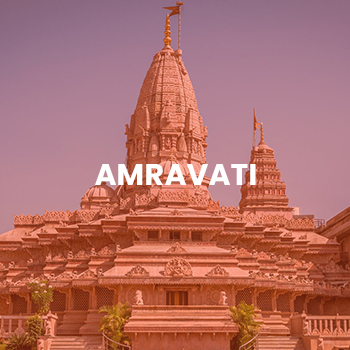
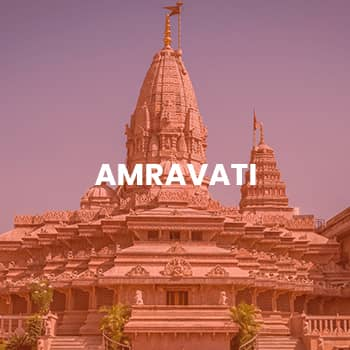
minor changes

diff --git a/gallery.html b/gallery.html
@@ -337,14 +337,14 @@
                   <div class="footer-social">
                     <a
                       class="footer-social-icon facebook"
-                      href="#"
+                      href="https://www.facebook.com/profile.php?id=100084975259552"
                       target="_blank"
                       ><i class="fab fa-facebook-f"></i
                     ></a>
 
                     <a
                       class="footer-social-icon instagram"
-                      href="#"
+                      href="https://instagram.com/trendsganesha?igshid=YmMyMTA2M2Y="
                       target="_blank"
                       ><i class="fab fa-instagram"></i
                     ></a>
@@ -369,15 +369,20 @@
                   <h5></h5>
                   <ul class="ft-menu-list">
                     <li>
-                      <strong>Email:</strong
-                      ><a class="text-black" href="mailto:corporate@lokmat.com"
-                        >corporate@lokmat.com</a
+                      <strong>Email: </strong
+                      ><a class="text-black" href="mailto:revathi.mudaliar@lokmat.com"
+                        >revathi.mudaliar@lokmat.com</a
                       >
                     </li>
                     <li>
                       <strong>Phone: </strong
-                      ><a class="text-black" href="tel:022-2482-0000"
-                        >022 2482 0000</a
+                      ><a class="text-black" href="tel:+91989-234-1158"
+                        >+91 9892341158</a
+                      >
+                    </li>
+                    <li>
+                      <a class="text-black" href="terms.html"
+                        ><strong>Terms and Conditions</strong></a
                       >
                     </li>
                   </ul>

diff --git a/index.html b/index.html
@@ -837,14 +837,14 @@
                   <div class="footer-social">
                     <a
                       class="footer-social-icon facebook"
-                      href="#"
+                      href="https://www.facebook.com/profile.php?id=100084975259552"
                       target="_blank"
                       ><i class="fab fa-facebook-f"></i
                     ></a>
 
                     <a
                       class="footer-social-icon instagram"
-                      href="#"
+                      href="https://instagram.com/trendsganesha?igshid=YmMyMTA2M2Y="
                       target="_blank"
                       ><i class="fab fa-instagram"></i
                     ></a>
@@ -869,15 +869,20 @@
                   <h5></h5>
                   <ul class="ft-menu-list">
                     <li>
-                      <strong>Email:</strong
-                      ><a class="text-black" href="mailto:corporate@lokmat.com"
-                        >corporate@lokmat.com</a
+                      <strong>Email: </strong
+                      ><a class="text-black" href="mailto:revathi.mudaliar@lokmat.com"
+                        >revathi.mudaliar@lokmat.com</a
                       >
                     </li>
                     <li>
                       <strong>Phone: </strong
-                      ><a class="text-black" href="tel:022-2482-0000"
-                        >022 2482 0000</a
+                      ><a class="text-black" href="tel:+91989-234-1158"
+                        >+91 9892341158</a
+                      >
+                    </li>
+                    <li>
+                      <a class="text-black" href="terms.html"
+                        ><strong>Terms and Conditions</strong></a
                       >
                     </li>
                   </ul>

diff --git a/participate.html b/participate.html
@@ -369,14 +369,14 @@
                   <div class="footer-social">
                     <a
                       class="footer-social-icon facebook"
-                      href="#"
+                      href="https://www.facebook.com/profile.php?id=100084975259552"
                       target="_blank"
                       ><i class="fab fa-facebook-f"></i
                     ></a>
 
                     <a
                       class="footer-social-icon instagram"
-                      href="#"
+                      href="https://instagram.com/trendsganesha?igshid=YmMyMTA2M2Y="
                       target="_blank"
                       ><i class="fab fa-instagram"></i
                     ></a>
@@ -401,15 +401,20 @@
                   <h5></h5>
                   <ul class="ft-menu-list">
                     <li>
-                      <strong>Email:</strong
-                      ><a class="text-black" href="mailto:corporate@lokmat.com"
-                        >corporate@lokmat.com</a
+                      <strong>Email: </strong
+                      ><a class="text-black" href="mailto:revathi.mudaliar@lokmat.com"
+                        >revathi.mudaliar@lokmat.com</a
                       >
                     </li>
                     <li>
                       <strong>Phone: </strong
-                      ><a class="text-black" href="tel:022-2482-0000"
-                        >022 2482 0000</a
+                      ><a class="text-black" href="tel:+91989-234-1158"
+                        >+91 9892341158</a
+                      >
+                    </li>
+                    <li>
+                      <a class="text-black" href="terms.html"
+                        ><strong>Terms and Conditions</strong></a
                       >
                     </li>
                   </ul>

diff --git a/posts/index.html b/posts/index.html
@@ -338,14 +338,14 @@
                   <div class="footer-social">
                     <a
                       class="footer-social-icon facebook"
-                      href="#"
+                      href="https://www.facebook.com/profile.php?id=100084975259552"
                       target="_blank"
                       ><i class="fab fa-facebook-f"></i
                     ></a>
 
                     <a
                       class="footer-social-icon instagram"
-                      href="#"
+                      href="https://instagram.com/trendsganesha?igshid=YmMyMTA2M2Y="
                       target="_blank"
                       ><i class="fab fa-instagram"></i
                     ></a>
@@ -370,15 +370,20 @@
                   <h5></h5>
                   <ul class="ft-menu-list">
                     <li>
-                      <strong>Email:</strong
-                      ><a class="text-black" href="mailto:corporate@lokmat.com"
-                        >corporate@lokmat.com</a
+                      <strong>Email: </strong
+                      ><a class="text-black" href="mailto:revathi.mudaliar@lokmat.com"
+                        >revathi.mudaliar@lokmat.com</a
                       >
                     </li>
                     <li>
                       <strong>Phone: </strong
-                      ><a class="text-black" href="tel:022-2482-0000"
-                        >022 2482 0000</a
+                      ><a class="text-black" href="tel:+91989-234-1158"
+                        >+91 9892341158</a
+                      >
+                    </li>
+                    <li>
+                      <a class="text-black" href="terms.html"
+                        ><strong>Terms and Conditions</strong></a
                       >
                     </li>
                   </ul>

diff --git a/prizes.html b/prizes.html
@@ -365,14 +365,14 @@
                   <div class="footer-social">
                     <a
                       class="footer-social-icon facebook"
-                      href="#"
+                      href="https://www.facebook.com/profile.php?id=100084975259552"
                       target="_blank"
                       ><i class="fab fa-facebook-f"></i
                     ></a>
 
                     <a
                       class="footer-social-icon instagram"
-                      href="#"
+                      href="https://instagram.com/trendsganesha?igshid=YmMyMTA2M2Y="
                       target="_blank"
                       ><i class="fab fa-instagram"></i
                     ></a>
@@ -397,15 +397,20 @@
                   <h5></h5>
                   <ul class="ft-menu-list">
                     <li>
-                      <strong>Email:</strong
-                      ><a class="text-black" href="mailto:corporate@lokmat.com"
-                        >corporate@lokmat.com</a
+                      <strong>Email: </strong
+                      ><a class="text-black" href="mailto:revathi.mudaliar@lokmat.com"
+                        >revathi.mudaliar@lokmat.com</a
                       >
                     </li>
                     <li>
                       <strong>Phone: </strong
-                      ><a class="text-black" href="tel:022-2482-0000"
-                        >022 2482 0000</a
+                      ><a class="text-black" href="tel:+91989-234-1158"
+                        >+91 9892341158</a
+                      >
+                    </li>
+                    <li>
+                      <a class="text-black" href="terms.html"
+                        ><strong>Terms and Conditions</strong></a
                       >
                     </li>
                   </ul>

diff --git a/style.css b/style.css
@@ -12765,7 +12765,7 @@ a {
 
 .img-size > img {
   /* height: 70px; */
-  width: 400px;
+  width: 300px;
 }
 
 .text-left > h4 {
